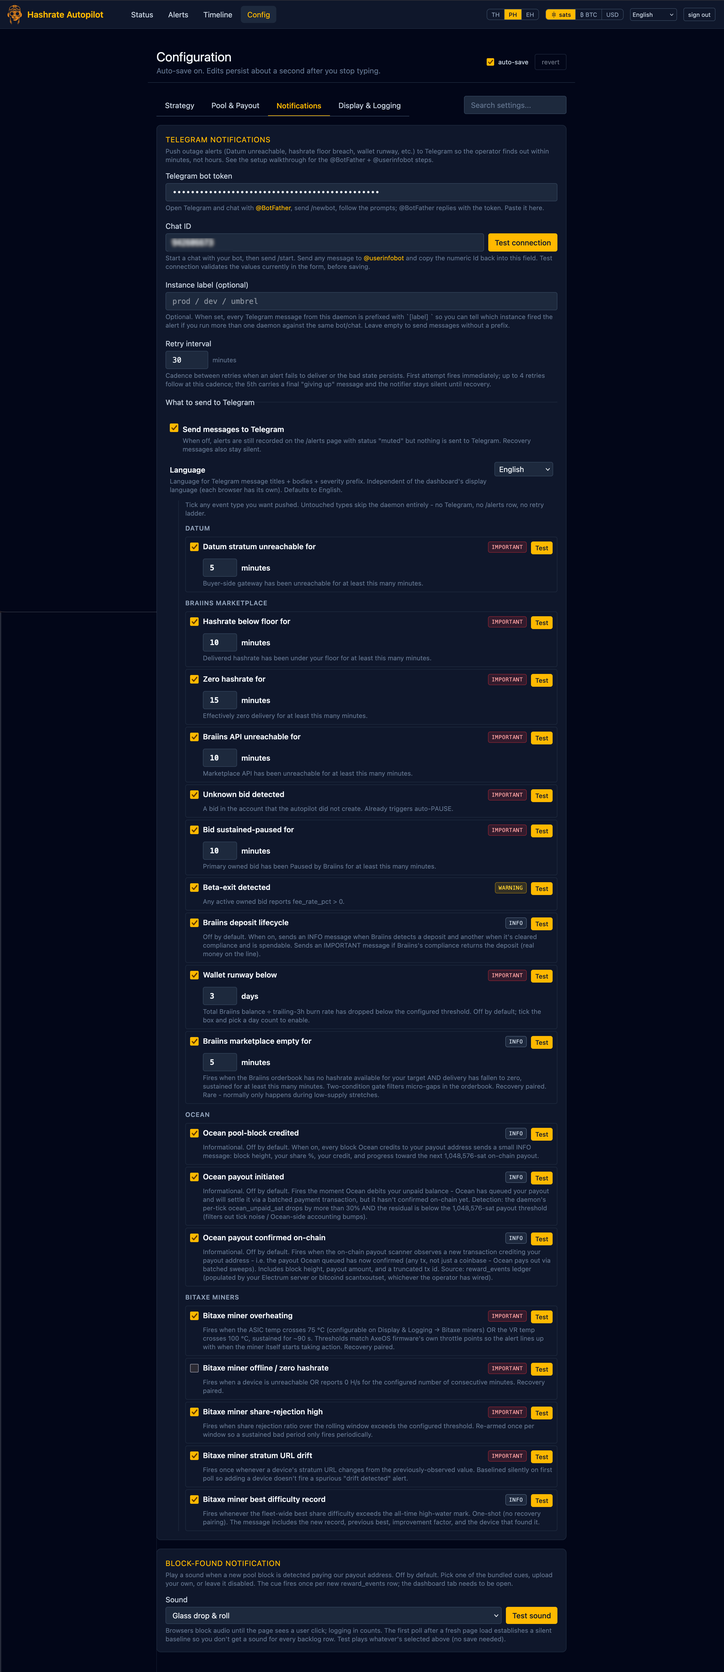
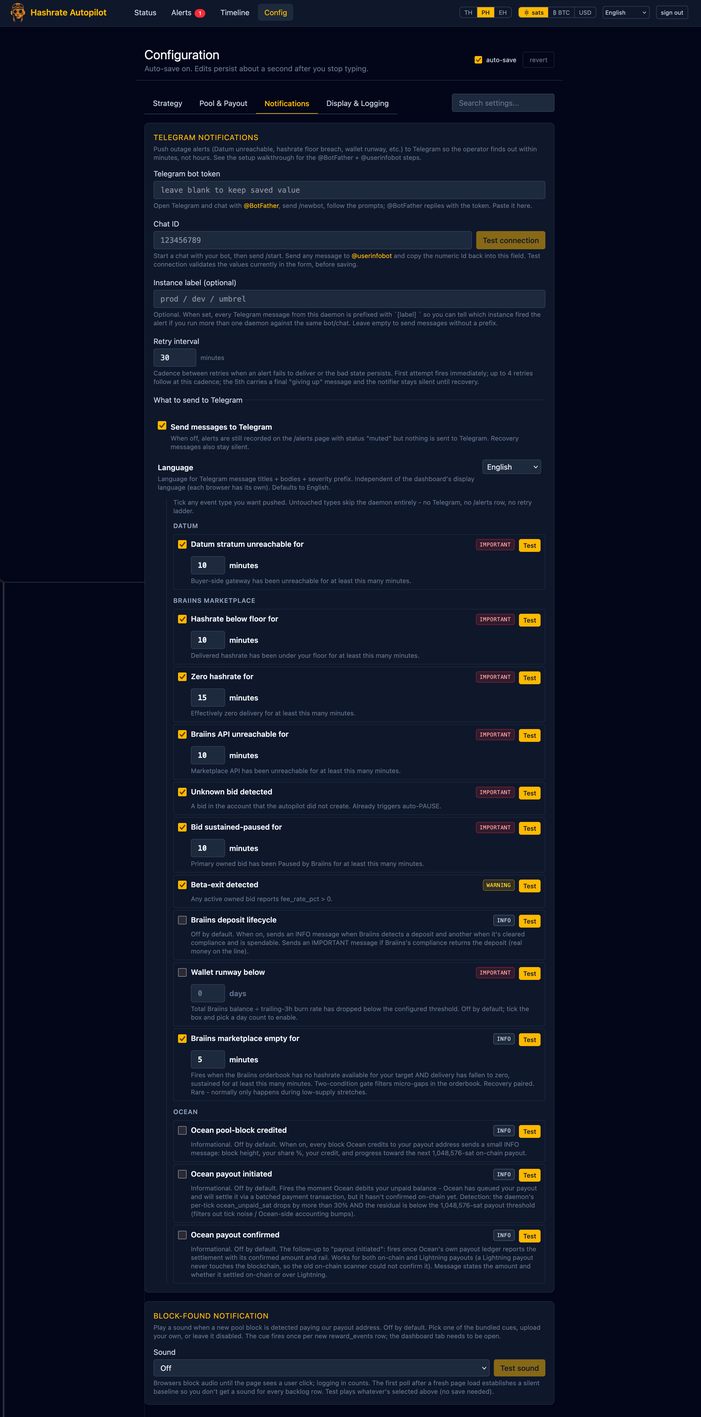
docs: sync all documentation with the v1.17.0 security work
Pre-release documentation sweep covering everything since v1.16.0:
secrets-at-rest (#331), in-app credential rotation (#332), the
config-change audit-log redaction (GHSA-x8x9), and the earnpay payout
tracking already shipped in #323.

- README: correct the now-wrong "secrets persist plaintext" tech-stack
  line to describe AES-256-GCM at rest + scrypt password hash + the
  write-only credential API; document the new Config -> Pool & Payout ->
  Security & credentials section and make it the first-listed rotation
  path; note audit-log redaction and pinch-to-zoom.
- SECURITY.md: add a "How secrets are protected" posture section and a
  "Past advisories" section for GHSA-wvpp-w528-9p8x and
  GHSA-x8x9-3m72-9w8w.
- configuration.md: document BHA_SECRET_KEY / BHA_SECRET_KEY_FILE, a
  Secrets-at-rest section (encryption, write-only fields), and the
  in-app rotation flow.
- spec.md / architecture.md: add secrets-at-rest + credential-rotation
  coverage, the /api/security/* routes, migrations 0116/0117, and refresh
  the schema/date/version markers.
- setup-telegram.md / migrating-from-community-store.md: fix the stale
  "password-masked" wording (fields are blank-on-read now) and add an
  accurate note that a migrated community-store DB is plaintext and gets
  encrypted in place on first boot.
- Refresh the Pool & Payout and Notifications config screenshots.

Docs-only; no behavior change.

diff --git a/docs/spec.md b/docs/spec.md
@@ -1,6 +1,6 @@
 # Hashrate Autopilot - Specification (v2.17)
 
-> Status: current, aligned with code through 2026-06-15 (v1.15.0).
+> Status: current, aligned with code through 2026-07-08 (v1.17.0).
 >
 > This spec has been through three pricing regimes. **v1.x** used a depth-aware "fillable + overpay" controller with escalation timers, lowering-patience, and a dampening subsystem. **v2.0** (2026-04-23, same day) retired all of it on the hypothesis that Braiins matched CLOB-style and the bid was a matching-access ceiling. **v2.1** (2026-04-23, hours later) reversed v2.0 after a direct A/B on the live account showed Braiins matches pay-your-bid - the bid price *is* the paid price. The current controller tracks `fillable_ask + overpay_sat_per_eh_day` (the v1.x primitive) without the v1.x timer machinery (which was only needed to simulate that target under a misread of the mechanic); the retired escalation/patience/min-lower-delta knobs stay retired.
 >
@@ -57,6 +57,16 @@ Umbrel, Docker and scripted installs. See README.md for details.
   password on the dashboard (VPN is the real perimeter).
 - **Tech stack (locked):** TypeScript monorepo. Node daemon (control loop, API clients, ledger) + React dashboard +
   SQLite for persistent state.
+
+### 4.1 Secrets at rest (#331)
+
+- Database-stored secrets (Braiins owner + read-only tokens, `bitcoind` RPC password, Telegram bot token, DDNS credential) are AES-256-GCM encrypted at rest. Envelope format: `enc:v1:<base64 iv>:<base64 ciphertext+tag>`. The field name is used as the GCM additional-authenticated-data (AAD), so a ciphertext can't be moved between fields.
+- The dashboard password is stored as a one-way scrypt hash (N=2^15), never recoverable - only verified.
+- Encryption-key resolution order: `BHA_SECRET_KEY` env var (on Umbrel this is the device-derived `APP_SEED`, passed as `BHA_SECRET_KEY`) > `BHA_SECRET_KEY_FILE` > a generated `secret.key` file (mode 0600) next to `state.db`. Key material is HKDF-SHA256 derived.
+- Legacy plaintext rows are encrypted / hashed in place on the next daemon boot (idempotent upgrade - re-running is a no-op).
+- Graceful decrypt-failure: if the key is wrong or lost, the affected secret is treated as unset (`NEEDS_SETUP` for the owner token), never a crash loop.
+- The config API is write-only for credential fields: GET returns them blank, and a blank value on save means "keep existing".
+- Full threat model in `docs/security-secrets-at-rest.md`. This addresses advisory GHSA-wvpp. Per GHSA-x8x9 the config-change audit log (`system_events`) now redacts credential values, and migration 0117 scrubbed any previously-logged ones.
 
 ## 5. Inputs (observable signals)
 
@@ -663,11 +673,13 @@ Reorganised in v1.5.0 (#107) from a single long-scroll form into **four tabs** w
 | Tab | Sections |
 |---|---|
 | **Strategy** | Hashrate targets, Cheap mode, Pricing (fillable-tracking overpay + two safety ceilings), Budget, Daemon startup |
-| **Pool & Payout** | Pool destination + Test connection button, Datum stats API + Test connection button, Dynamic DNS (provider + hostname + credentials + Test connection button + diagnostic IPs - daemon's public IP, hostname resolves to, match/mismatch note), Payout source (none / electrs / bitcoind + Test connection buttons), Profit & Loss scope, BTC price oracle |
+| **Pool & Payout** | Pool destination + Test connection button, Datum stats API + Test connection button, Dynamic DNS (provider + hostname + credentials + Test connection button + diagnostic IPs - daemon's public IP, hostname resolves to, match/mismatch note), Payout source (none / electrs / bitcoind + Test connection buttons), Profit & Loss scope, BTC price oracle, Security & credentials (dashboard-password change + Braiins token rotation, DB-sourced installs only - #332) |
 | **Notifications** | Telegram bot token + chat ID + Test connection button, instance label, mute toggle, retry interval, wallet-runway threshold, per-event-class opt-out checklist, pool-block-credit toggle, block-found sound (off / bundled / custom upload) |
 | **Display & Logging** | Number format (separators) + Date layout (independent dropdowns; month names always follow the UI language picker - #147), block explorer URL template + transaction URL template, chart colors (Lines / Markers / Bid events sections with live SVG glyph previews per row), chart smoothing (Braiins / Datum / Braiins price), chart-markers cap, log retention (tick metrics / decisions uneventful / decisions eventful / alerts), Bitaxe miners device list + alert thresholds (when `solo_mining_enabled = true`) |
 
 Saves go through the Zod `AppConfigInvariantsSchema` and take effect on the next tick - no daemon restart needed. PUT `/api/config` snapshots the previous config before upsert and fires `onConfigSaved` callbacks; main.ts wires that to refresh the live `cfgRefHolder.value` immediately AND, when any DDNS-relevant field changed, kick the DDNS updater once so a Pool URL / hostname / credential edit pushes within seconds rather than waiting on the next periodic poll.
+
+**Security & credentials (#332).** A section inside the **Pool & Payout** tab (not a fifth tab - the Config page still has exactly four) that lets DB-sourced (appliance / Umbrel) installs change the dashboard password and rotate the Braiins owner and read-only tokens in-app. It is the only rotation path that needs no shell and no SOPS. Every change requires re-entering the current dashboard password. A password change is applied live - the running Basic Auth verifier is hot-swapped, so the new password works on the next request and the old one stops immediately. A new Braiins token is test-called against Braiins (an authenticated read) before it is committed; a bad token is rejected and nothing is written, and token changes take effect on the next daemon restart. On env- or SOPS-sourced installs the section is read-only (an edit would be overwritten on the next boot) and instead points the operator to where those secrets are defined. Backend routes, all under the existing Basic Auth: `GET /api/security/state` -> `{ secret_source: 'env'|'sops'|'db', editable }`; `POST /api/security/password` `{ current_password, new_password }`; `POST /api/security/braiins-token` `{ kind: 'owner'|'read_only', current_password, token }`. Wrong current password -> 403; an edit on a non-db source -> 409; a weak new password (<8 chars) or a Braiins-rejected token -> 422. Design in `docs/credential-rotation.md`.
 
 ### 12.3 Timeline page
 

diff --git a/README.md b/README.md
@@ -176,7 +176,7 @@ Full design: [`docs/spec.md`](docs/spec.md) · [`docs/architecture.md`](docs/arc
   Braiins service card is days-of-balance at the current measured spend rate.
 - **Dashboard** - hashrate and price charts with drag-to-pan and click-to-focus scroll-wheel zoom
   (TradingView-style; click a chart to activate zoom, click outside or press Escape to deactivate; blue
-  outline shows the focused chart), time-range presets (3h / 6h / 12h / 24h / 1w / 1m / 1y / all) that
+  outline shows the focused chart) plus pinch-to-zoom on touch devices, time-range presets (3h / 6h / 12h / 24h / 1w / 1m / 1y / all) that
   stay highlighted while panning and soft-snap during zoom, viewport-scoped Y-axis that only scales to
   visible data (out-of-view spikes don't compress the chart), **clickable legend** - tap any legend entry to
   hide that series and tap again to restore it (Chart.js / Bitaxe style); hiding a series also rescales the
@@ -321,7 +321,10 @@ Notifications and every message gets prefixed with `[<label>] ` so you can tell 
 
 Every bid event the autopilot or operator emitted - CREATE / EDIT_PRICE / EDIT_SPEED / CANCEL - lands in
 an append-only log surfaced at `/history` (titled "Timeline" in the nav) as a flat sortable table,
-interleaved with alert spans, on-chain events, difficulty retargets, and daemon restarts.
+interleaved with alert spans, on-chain events, difficulty retargets, config changes, and daemon restarts.
+Config-change rows open a readable semantic diff (field name, before → after) rather than raw JSON, and
+credential values are redacted from that audit trail so a leaked or exported Timeline never carries a
+secret (GHSA-x8x9).
 
 ![Timeline page](docs/images/timeline.png)
 
@@ -379,8 +382,11 @@ payouts* toggle with a **Backfill now** button that walks the address history an
 coinbase payouts into the lifetime-earnings line, and a *Pre-installation earnings* field for off-chain
 or pre-autopilot income the on-chain observer can't see - Lightning payouts, swept Ocean history -
 which becomes the starting value of the lifetime chart and folds into the net P&L), **Profit & Loss**
-spend scope (autopilot-tagged bids only vs the whole Braiins account), and **BTC price oracle** (feeds
-the sat ↔ USD header toggle; CoinGecko / Coinbase / Bitstamp / Kraken).
+spend scope (autopilot-tagged bids only vs the whole Braiins account), **BTC price oracle** (feeds
+the sat ↔ USD header toggle; CoinGecko / Coinbase / Bitstamp / Kraken), and **Security & credentials**
+(change the dashboard password and rotate the Braiins owner / read-only tokens in-app, each gated on your
+current password; the only rotation path that needs no shell or SOPS, so it works on Umbrel - #332. On
+env/SOPS installs this section is read-only and points you to where those secrets are defined).
 
 ### Notifications
 
@@ -435,7 +441,15 @@ schema. See [docs/configuration.md](docs/configuration.md) for the full list.
 ## Tech stack
 
 TypeScript monorepo (pnpm workspaces), Node 22+, React dashboard, SQLite (better-sqlite3). Secrets persist
-in `data/state.db` via the first-run wizard by default; SOPS-encrypted file remains supported for power users.
+in `data/state.db` via the first-run wizard by default; a SOPS-encrypted file remains supported for power
+users. Database-stored secrets (Braiins tokens, bitcoind RPC password, Telegram token, DDNS credential) are
+**AES-256-GCM encrypted at rest**, and the dashboard password is stored as a one-way **scrypt** hash, so a
+copied database or a backup no longer exposes them (#331). The encryption key comes from the `BHA_SECRET_KEY`
+environment variable (on Umbrel that's the device-derived `APP_SEED`, kept outside the app's data) or a
+generated key file next to `state.db`; if the key is ever lost the daemon treats the affected secret as unset
+and prompts you to re-enter it rather than crash-looping. The config API is write-only for credential fields:
+it returns them blank and treats a blank value on save as "keep the existing one." See
+[`docs/security-secrets-at-rest.md`](docs/security-secrets-at-rest.md) for the full threat model.
 
 ```
 packages/
@@ -826,14 +840,23 @@ autopilot is doing what you expect.
 Both behaviours are independent of which install path you picked.
 
 **Editing secrets later:** the wizard persists everything (config + secrets) into `data/state.db`
-(or `/app/data/state.db` in the Docker case). Two ways to rotate:
+(or `/app/data/state.db` in the Docker case). Ways to rotate, easiest first:
 
-1. **Re-run the wizard:** stop the daemon, run
-   `sqlite3 data/state.db 'DELETE FROM secrets;'` to force NEEDS_SETUP, restart, and the dashboard
-   redirects to `/setup` with your existing config pre-filled.
+1. **In-app (dashboard/DB installs, including Umbrel):** Config → Pool & Payout → **Security &
+   credentials** lets you change the dashboard password (takes effect immediately, the old one stops
+   working at once) and rotate the Braiins owner and read-only tokens (each test-called against Braiins
+   before it's saved, so a typo can't break bidding; token changes apply on the next daemon restart).
+   Every change asks for your current password first. This is the only rotation path that needs no shell
+   or SOPS, which is why it exists (#332). The Telegram token, bitcoind RPC password, and DDNS credential
+   stay editable in their own Config sections as before.
 2. **`BHA_*` env-var override:** set the env var (e.g. `BHA_BRAIINS_OWNER_TOKEN=…`) in the daemon's
    environment and it takes precedence over the DB value on every boot. On Docker, that's
-   `docker run -e BHA_…`. See [`docs/configuration.md`](docs/configuration.md).
+   `docker run -e BHA_…`. See [`docs/configuration.md`](docs/configuration.md). On env/SOPS installs the
+   in-app Security section is read-only and points you here, since a DB write would be overwritten on the
+   next boot.
+3. **Re-run the wizard:** stop the daemon, run
+   `sqlite3 data/state.db 'DELETE FROM secrets;'` to force NEEDS_SETUP, restart, and the dashboard
+   redirects to `/setup` with your existing config pre-filled.
 
 **Running on a second host (or migrating):** all operator-relevant state lives under `data/`
 (bare-metal) or in the named volume (Docker). Either:

diff --git a/docs/architecture.md b/docs/architecture.md
@@ -219,7 +219,9 @@ hashrate-autopilot/
 │   │   │   └── execute.ts          (calls Braiins API with dry-run/live split)
 │   │   └── src/http/               (Fastify; dashboard API)
 │   │       ├── server.ts
-│   │       └── routes/             (status, config, decisions, actions, metrics [+ /api/retargets +
+│   │       └── routes/             (status, config, security [#332 - /api/security/state,
+│   │                                /api/security/password, /api/security/braiins-token],
+│   │                                decisions, actions, metrics [+ /api/retargets +
 │   │                                /api/system-events], run-mode, finance, stats, storage-estimate,
 │   │                                bid-events [+ /api/bid-history, /api/bid-history/:order_id/events,
 │   │                                /api/bid-history-events - the #256 v2 flat Timeline feed], ocean,
@@ -316,7 +318,7 @@ Core tables, WAL-mode, single file at `data/state.db`. Migration scripts live in
 
 ```sql
 -- Live-editable configuration (single-row pattern)
--- Reflects the current schema after all migrations through 0115.
+-- Reflects the current schema after all migrations through 0117.
 CREATE TABLE config (
   id INTEGER PRIMARY KEY CHECK (id = 1),
   -- Hashrate targets
@@ -943,7 +945,7 @@ concern (not by order; the file names are authoritative):
   with NULL on bid-rotation ticks (counter reset → negative
   Δpurchased) and on ticks where Δpurchased ≤ 0.
 
-- **Post-1.14 window (0107-0115):** 0107 (#243) scrubs orphan May 5-6 rows
+- **Post-1.14 window (0107-0117):** 0107 (#243) scrubs orphan May 5-6 rows
   left in the share-counter columns by the reverted #90 migration reusing
   the same names. 0108 (#244) adds the reserved/dormant `dashboard_card_order` column, 0109 (#250) creates `ip_change_events`, 0110 (#266) adds `dashboard_tiles`. 0111
   (#287) rebuilds `bid_events` to widen the kind CHECK constraint for
@@ -952,7 +954,17 @@ concern (not by order; the file names are authoritative):
   reconstruction); 0113 backfills it. 0114 (#318) creates `system_events`
   (config_change + daemon_started rows behind `GET /api/system-events`).
   0115 (2026-07-02 audit) drops `config.handover_window_minutes` - the
-  retired §7.3 manual-override knob nothing read.
+  retired §7.3 manual-override knob nothing read. 0116 (#323) creates the
+  `ocean_payouts` table, synced from Ocean's `/v1/earnpay` endpoint
+  (per-address backfill + trailing-window refresh). It holds both on-chain
+  payouts (has `on_chain_txid`) and Lightning payouts (`on_chain_txid IS
+  NULL`), and is the source of truth for the Profit & Loss "collected"
+  figure and its on-chain/Lightning rail split. 0117 (GHSA-x8x9) scrubs
+  credential values that a v1.16.0 config-change audit-log feature had
+  written in cleartext into `system_events` rows (`telegram_bot_token`,
+  `bitcoind_rpc_user`, `bitcoind_rpc_password`, `ddns_username`,
+  `ddns_credential`); the daemon also redacts these at write time going
+  forward.
 
 - **Gap-backfill + boot-time payout refresh (0104-0105):** 0104 (#241)
   adds `tick_metrics.synthetic INTEGER NOT NULL DEFAULT 0` marking rows
@@ -998,11 +1010,25 @@ Reconciliation pass: periodic full scan to catch anything real-time detection mi
 
 ## 7. Secrets and config
 
-- **sops** with an **age** key. Single-file, no keyring faff, easy to rotate.
-- Decryption happens once at daemon startup. Decrypted values are held in memory, never re-written to disk; pino log
-  redaction on `braiins_owner_token`, `braiins_read_only_token`, `bitcoind_rpc_password`, `dashboard_password`.
-- The age private key lives on the always-on box at a fixed path with chmod 600; operator is responsible for a
-  backup (printed or encrypted USB).
+- **Layered secret resolution** (first available wins): `BHA_*` environment variables > the SOPS-encrypted file
+  (`.env.sops.yaml`) > the encrypted `secrets` table in `state.db` (populated by the first-run web onboarding
+  wizard). Any one source can satisfy a given secret.
+- **Secrets-at-rest (#331).** The database-stored secrets - Braiins owner + read-only tokens, bitcoind RPC
+  password, Telegram bot token, DDNS credential - are AES-256-GCM encrypted at rest. Each value is stored as an
+  envelope `enc:v1:<b64 iv>:<b64 ciphertext+tag>`, with the field name bound in as the AAD. The dashboard password
+  is stored as a one-way scrypt hash (never recoverable, only verifiable).
+- **Encryption key resolution** (first available wins): `BHA_SECRET_KEY` env var (on Umbrel this is the
+  device-derived `APP_SEED`) > `BHA_SECRET_KEY_FILE` > a generated `secret.key` file (mode 0600) written next to
+  `state.db`. The resolved key is run through HKDF-SHA256 to derive the per-field encryption key.
+- A decrypt failure is handled gracefully - the secret is treated as unset rather than crashing the daemon into a
+  restart loop. Legacy plaintext rows (from before #331) are encrypted or hashed in place on the next boot; the
+  migration is idempotent.
+- **Write-only credential API.** The config API is write-only for credential fields (`bitcoind_rpc_password`,
+  `telegram_bot_token`, `ddns_credential`): they are accepted on POST but never echoed back on GET, and a blank
+  value on save keeps the existing secret rather than clearing it.
+- Decrypted values are held in memory only, never re-written to disk in plaintext; pino log redaction covers
+  `braiins_owner_token`, `braiins_read_only_token`, `bitcoind_rpc_password`, `dashboard_password`. See
+  `docs/security-secrets-at-rest.md` for the full threat model and key-management details.
 - Live tunables (non-secret) live in SQLite `config` table, editable via the dashboard and `/config` HTTP route.
   Validation against a Zod schema on every write.
 

diff --git a/docs/configuration.md b/docs/configuration.md
@@ -40,6 +40,39 @@ issue #60.
 | `BHA_BITCOIND_RPC_PASSWORD` | `bitcoind_rpc_password` | Optional. |
 | `BHA_TELEGRAM_BOT_TOKEN` | `telegram_bot_token` | Active (#100). Dual-location: also a live-editable config field; the env var seeds both. |
 
+### Secrets at rest and in the API (#331)
+
+Secrets that live in the database are **AES-256-GCM encrypted at rest**
+(Braiins owner + read-only tokens, `bitcoind_rpc_password`,
+`telegram_bot_token`, `ddns_credential`), and the dashboard password is
+stored as a one-way **scrypt** hash. The encryption key is resolved
+`BHA_SECRET_KEY` env > `BHA_SECRET_KEY_FILE` > a generated `secret.key`
+next to `state.db` (see the process-level table below). Legacy plaintext
+rows are encrypted or hashed in place on the next daemon boot. If the key
+is lost the daemon treats the affected secret as unset and asks you to
+re-enter it, rather than crash-looping.
+
+The config API is **write-only** for credential fields: `GET /api/config`
+returns `telegram_bot_token`, `bitcoind_rpc_password`, and
+`ddns_credential` blanked, and a blank value on save means "keep the
+stored one". Non-secret fields (usernames, URLs) stay visible. The
+config-change audit log redacts credential values as well (GHSA-x8x9).
+
+Env-var and SOPS values still win over the database on every boot, so on
+those installs the encrypted DB copy is effectively a seed, not the
+source of truth.
+
+### Rotating secrets in-app (#332)
+
+On database-sourced installs (the appliance / Umbrel path, where there is
+no shell or SOPS), Config -> Pool & Payout -> **Security & credentials**
+lets you change the dashboard password (applied immediately) and rotate
+the Braiins owner and read-only tokens (validated against Braiins before
+saving; applied on the next daemon restart), each gated on your current
+password. On env- or SOPS-sourced installs that section is read-only and
+points you back to this file, since a database write would be overwritten
+on the next boot. See [`credential-rotation.md`](credential-rotation.md).
+
 ## Targets and pricing
 
 | Env var | Schema field | Type |
@@ -116,7 +149,7 @@ issue #60.
 
 | Env var | Schema field | Type |
 |---|---|---|
-| `BHA_TELEGRAM_BOT_TOKEN` | `telegram_bot_token` | string (live-editable config field; same env var also seeds the secrets-tier fallback) |
+| `BHA_TELEGRAM_BOT_TOKEN` | `telegram_bot_token` | string (editable config field, but write-only in the API and encrypted at rest - see [Secrets at rest](#secrets-at-rest-and-in-the-api-331); the env var also seeds the secrets-tier fallback) |
 | `BHA_TELEGRAM_CHAT_ID` | `telegram_chat_id` | string |
 | `BHA_TELEGRAM_INSTANCE_LABEL` | `telegram_instance_label` | string |
 | `BHA_NOTIFICATIONS_MUTED` | `notifications_muted` | boolean |
@@ -188,3 +221,5 @@ prefix - they predate the override layer:
 | `SECRETS_PATH` | `<repo>/.env.sops.yaml` | Override the SOPS file location. |
 | `DB_PATH` | `<repo>/data/state.db` | Override the SQLite path. |
 | `SOPS_AGE_KEY_FILE` | `~/.config/hashrate-autopilot/age.key` | Age private key for SOPS decrypt. |
+| `BHA_SECRET_KEY` | (unset) | Master key for encrypting database-stored secrets at rest (#331). On Umbrel this is set to the device-derived `APP_SEED`. When unset, the daemon falls back to `BHA_SECRET_KEY_FILE`, then to a generated `secret.key` (mode 0600) next to `state.db`. |
+| `BHA_SECRET_KEY_FILE` | (unset) | Path to a file holding the at-rest encryption key, used when `BHA_SECRET_KEY` is not set. |

diff --git a/SECURITY.md b/SECURITY.md
@@ -50,6 +50,41 @@ ask in a (non-exploit) public issue whether I've seen anything.
 - Forks of this repository. If a fork has a vulnerability, contact
   the fork's maintainer.
 
+## How secrets are protected
+
+Your credentials (Braiins tokens, bitcoind RPC password, Telegram bot
+token, DDNS credential) are AES-256-GCM encrypted at rest in the
+database, and the dashboard password is stored as a one-way scrypt hash.
+The encryption key comes from `BHA_SECRET_KEY` (on Umbrel that's the
+device-derived `APP_SEED`, which lives outside the app's data folder) or
+a generated key file next to the database. The config API is write-only
+for credential fields, and the config-change audit log redacts them.
+
+This protects the **data-at-rest** cases: a copied database, an
+unencrypted backup, an exported support bundle. It does **not** protect
+against someone who already controls the running machine - an unattended
+daemon has to decrypt its own secrets on boot with no human present, so
+the key is necessarily reachable by privileged processes on that host.
+Env- and SOPS-sourced secrets are never written to disk in the clear;
+DB-sourced secrets are the encrypted-at-rest path above. Full detail:
+[`docs/security-secrets-at-rest.md`](docs/security-secrets-at-rest.md).
+
+## Past advisories
+
+- **GHSA-wvpp-w528-9p8x** (high): credentials were stored in plaintext in
+  the SQLite database, so a copied database or backup exposed them.
+  Addressed in v1.17.0 by encrypting DB-stored secrets at rest and
+  hashing the dashboard password; existing installs upgrade in place on
+  the first start of that version.
+- **GHSA-x8x9-3m72-9w8w** (medium): the config-change audit log wrote
+  credential values in cleartext into Timeline system events, which were
+  readable via the API, the UI, and the Excel export. Addressed in
+  v1.17.0 by redacting credential fields at write time and scrubbing the
+  previously-logged rows on upgrade.
+
+Both were reported privately and are credited to their reporters in the
+published advisories.
+
 ## Coordinated disclosure
 
 If you'd like a CVE assigned, GitHub's vulnerability advisories can

diff --git a/docs/migrating-from-community-store.md b/docs/migrating-from-community-store.md
@@ -30,6 +30,8 @@ If you just click **Install** in the official store while keeping the community 
 The Docker image is identical (at the time of writing, both installs pull `ghcr.io/rdouma/hashrate-autopilot:1.13.0`),
 so the only thing that has to move between the two on-host directories is the SQLite database. That's what the steps below do.
 
+> **Note on secrets encryption.** The official version encrypts database-stored secrets (Braiins tokens, dashboard password, and so on) at rest with AES-256-GCM, using a key that is specific to this install - on Umbrel it's the app's injected `APP_SEED`. The community version predates this and stores those secrets in plaintext. That means a `state.db` copied over from the community store migrates fine: the official version reads the plaintext secrets and transparently encrypts them in place on its first boot, so there's nothing extra to do. The one caveat worth knowing is for later: if you ever move an *already-encrypted* database to a different Umbrel app id or a different device (a different key), the secrets in it may not decrypt. When that happens the daemon degrades gracefully - it treats the affected secret as unset and asks you to re-enter it in Setup / Config - it does not crash or touch the rest of your history. So if a credential comes up blank after such a move, just re-enter it.
+
 ## Step by step
 
 > **Back up `state.db` first if you have anything more than a few weeks of history.** Nothing in these steps is destructive, but a copy is cheap insurance. The easiest way: open the **Files** app on your umbrelOS home screen, navigate to the `rdouma-hashrate-autopilot` app-data folder, and copy `data/state.db` into your Home folder (or download it to your computer from there). From a laptop, `scp umbrel@umbrel.local:~/umbrel/app-data/rdouma-hashrate-autopilot/data/state.db ~/state.db.backup` works too.

diff --git a/docs/setup-telegram.md b/docs/setup-telegram.md
@@ -74,8 +74,10 @@ two paths:
 ## Step 3: paste both into Config → Notifications
 
 1. Open the dashboard and go to **Config → Notifications**.
-2. Paste the bot token into the **Telegram bot token** field
-   (password-masked).
+2. Paste the bot token into the **Telegram bot token** field. This
+   field shows blank on load rather than the old value masked; type a
+   new token to change it, or leave it blank to keep the currently
+   saved token.
 3. Paste the chat id into the **Chat ID** field.
 4. Click **Test connection**. The notifier sends:
 
@@ -166,7 +168,11 @@ Bitcoin Knots RPC password pattern: the encrypted-at-rest secrets
 file (`.env.sops.yaml`) is consulted as a fallback when the config
 column is empty, so installs that bootstrapped via the SOPS path
 keep working without a config edit. New installs and live edits
-write to the config table.
+write to the config table. The config `telegram_bot_token` field is
+write-only and shows blank on read because the stored value is
+encrypted at rest (AES-256-GCM, key from `BHA_SECRET_KEY` or a keyfile
+beside `state.db`); saving a blank submission preserves the existing
+token.
 
 ## What if Telegram itself is down?
 
